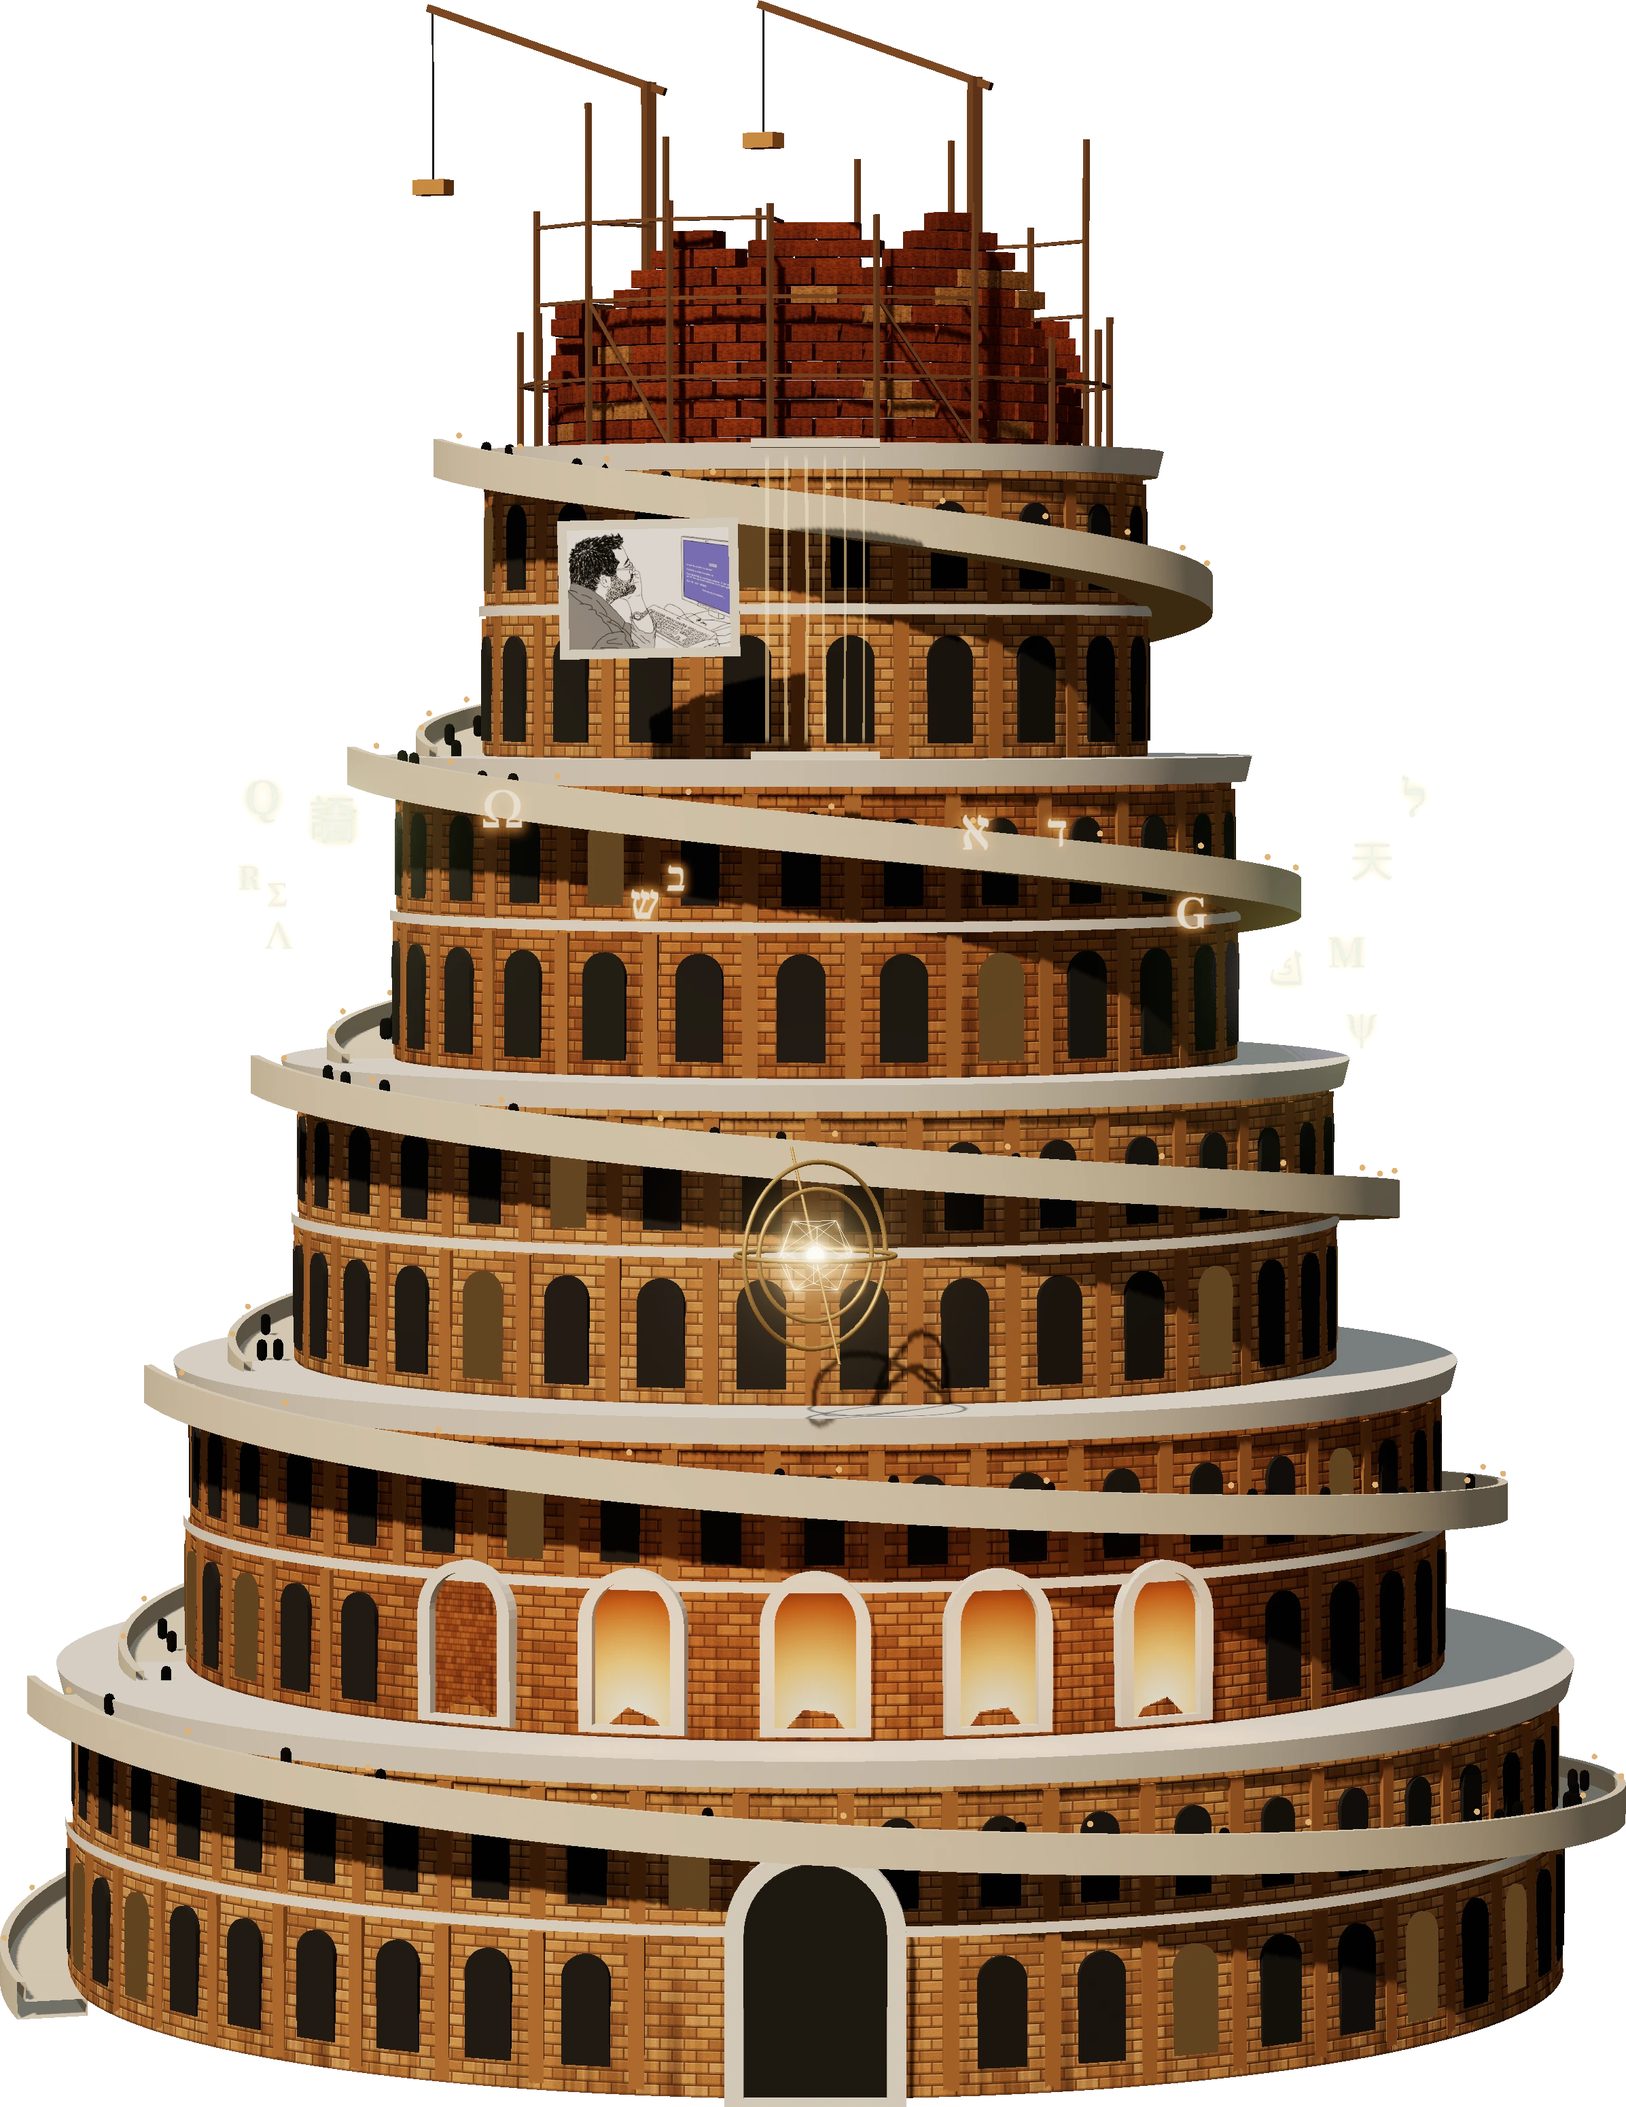
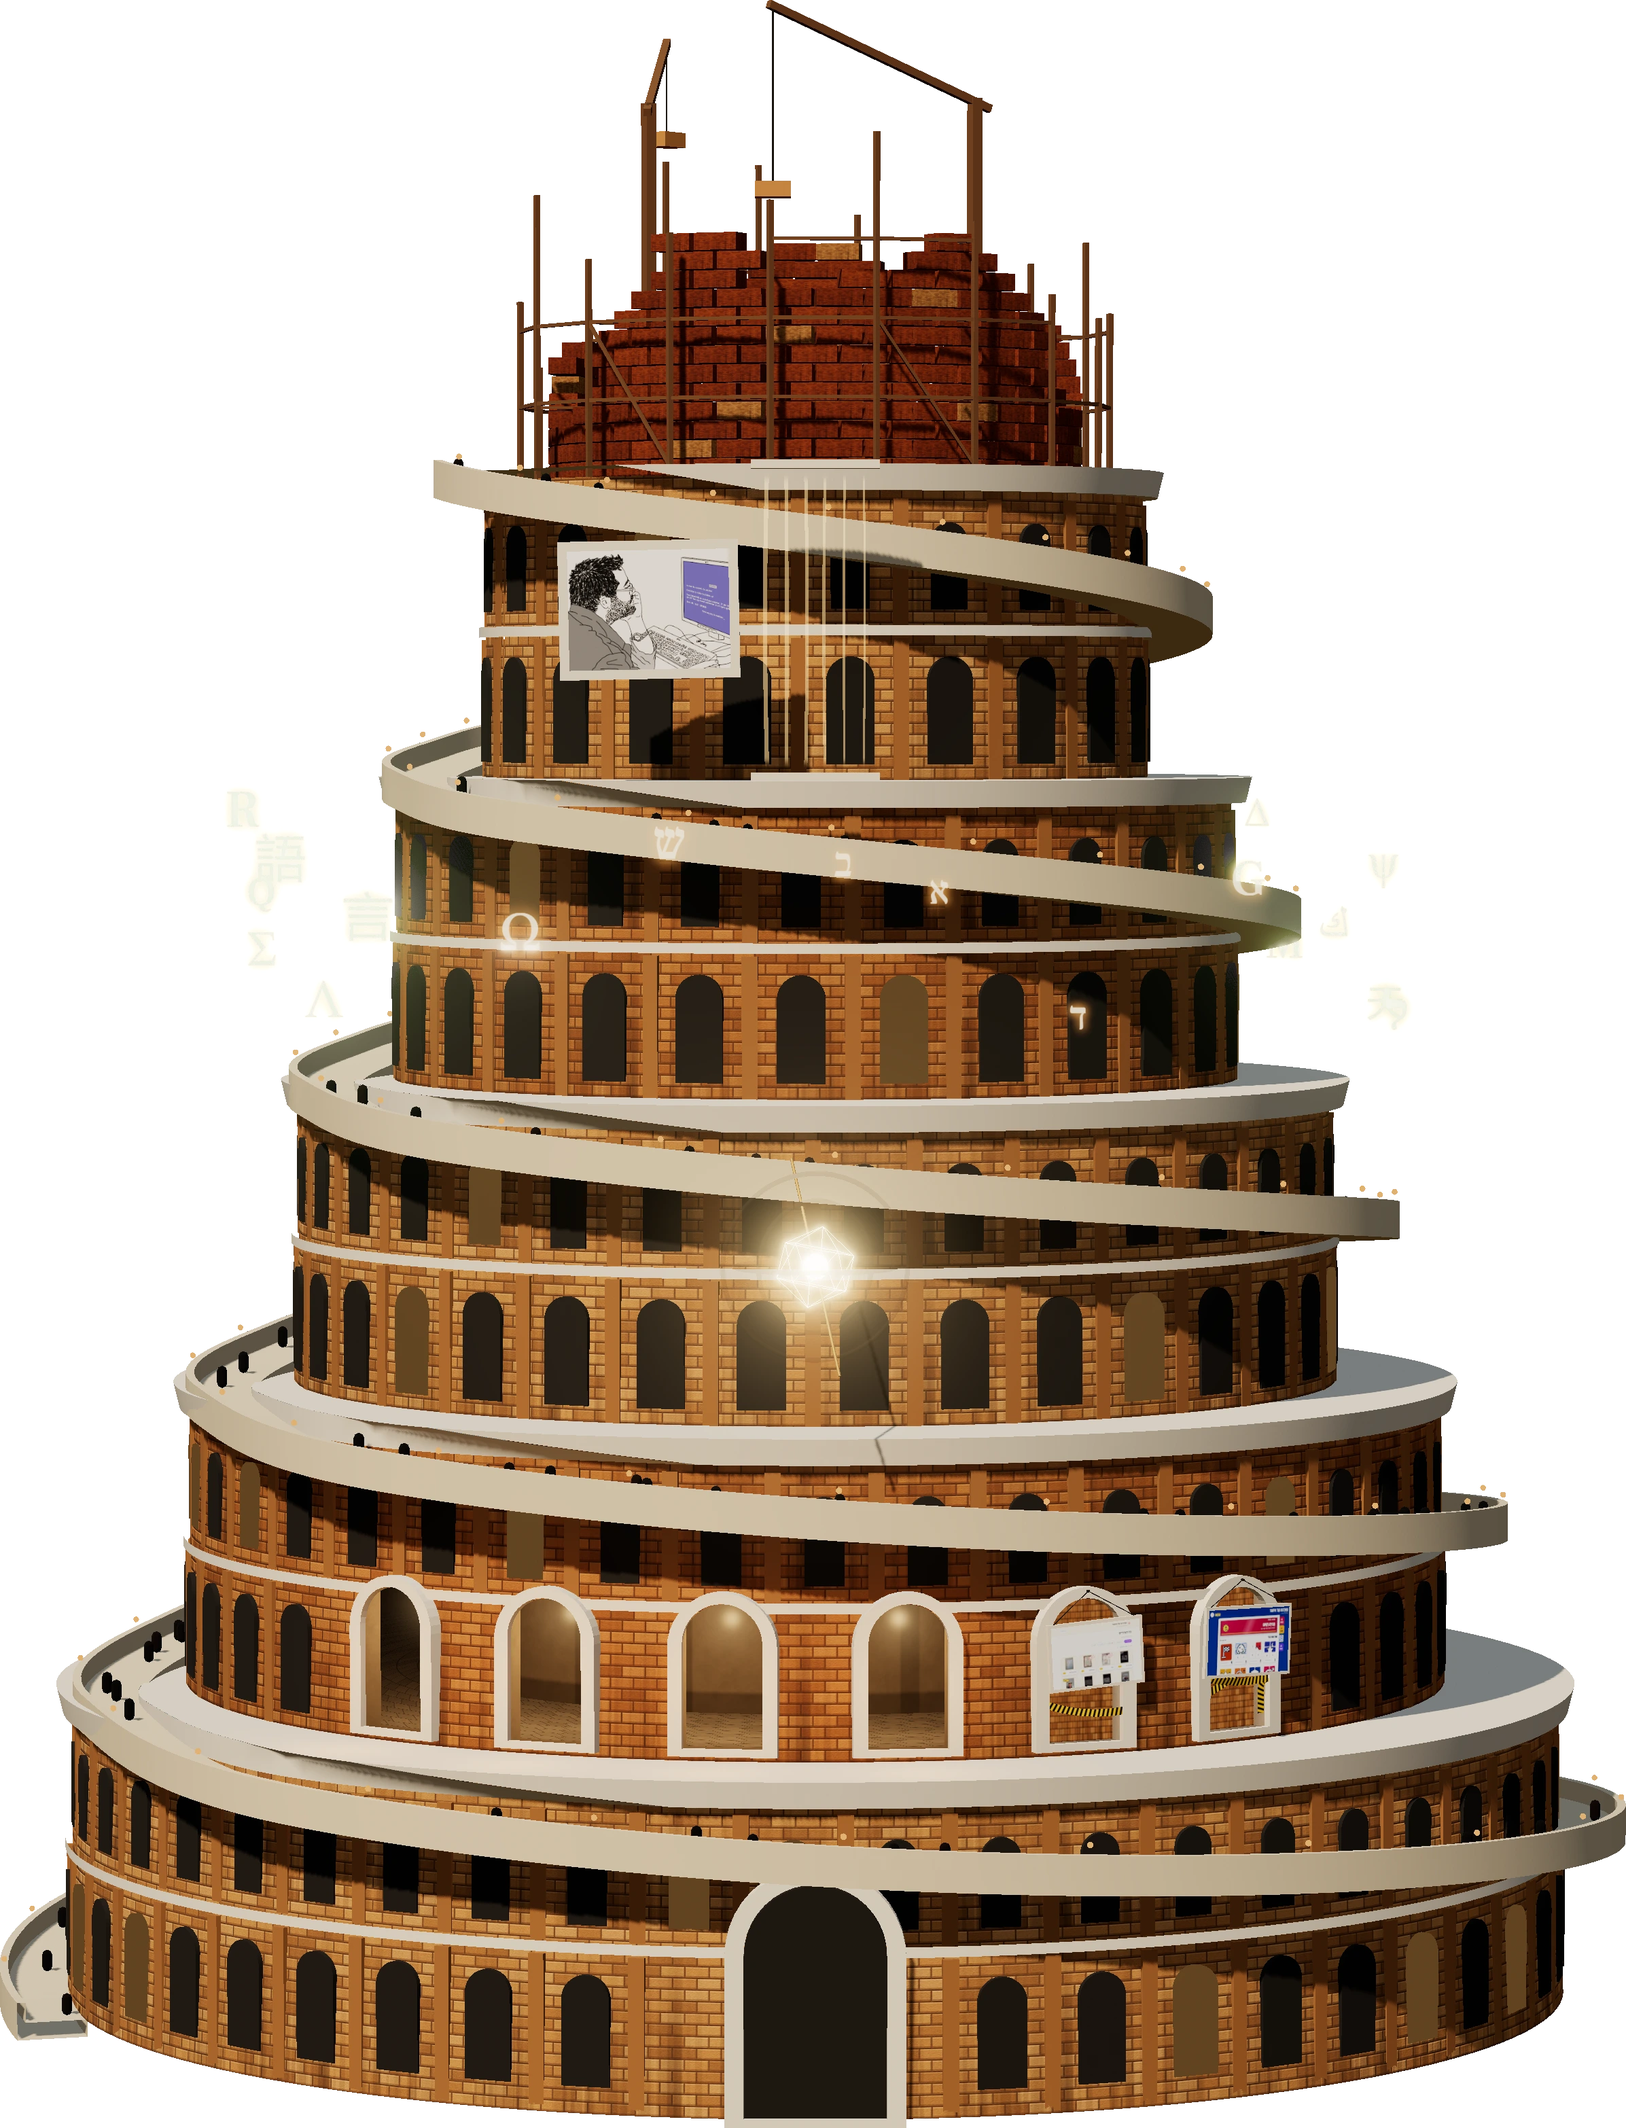
`design` the projects tier's signs, and the tower still with six doors

diff --git a/DESIGN.md b/DESIGN.md
@@ -12,6 +12,7 @@ colors:
   lamplight-wash: "color-mix(in srgb, #f2c37e 10%, transparent)"
   lamplight-edge: "color-mix(in srgb, #f2c37e 65%, transparent)"
   flemish-sky: "#6f8fb3"
+  pale-sky: "#9db7d6"
   dawn-zenith: "#2a3a62"
   dawn-horizon: "#f3b98a"
   summit-night: "#101a33"
@@ -111,7 +112,17 @@ components:
     textColor: "{colors.lamplight-gold}"
     typography: "{typography.label}"
     rounded: "{rounded.pill}"
-    padding: "4px 10px"
+    padding: "4px 10px 4px 8px"
+  project-status-dev:
+    textColor: "{colors.pale-sky}"
+  project-status-archive:
+    textColor: "{colors.limestone-dim}"
+  gallery-step:
+    backgroundColor: "{colors.control-glass}"
+    textColor: "{colors.limestone-cornice}"
+    rounded: "{rounded.pill}"
+    width: "40px"
+    height: "40px"
   path-mark:
     backgroundColor: "{colors.lamplight-gold}"
     rounded: "3px 3px 1px 1px"
@@ -173,10 +184,11 @@ The palette is the tower's materials under a sky that shifts with altitude, with
 
 ### Secondary
 - **Sun-baked Mudbrick** (#c98b4a): the tower's own brick. It appears in the brand mark's tiers, the loader's bricks, the lower brick in the game icon and the scrollbar thumb (pale at 28% until the panel is scrolled or hovered).
-- **Fired Mudbrick** (#a9713a): the darker course. It is the bricked-up doorway of a closed project and the bottom edge of the loader's bricks.
+- **Fired Mudbrick** (#a9713a): the darker course. It is the bricked-up doorway of a project in development and the bottom edge of the loader's bricks.
 
 ### Tertiary
 - **Flemish Sky** (#6f8fb3): the field (`--sd-field`) and the day stop of the sky.
+- **Pale Sky** (#9db7d6, `--sd-sky-pale`): the status of a project in development, its dot and its pill. It is the sky's own colour, not a second accent: it marks a state, the way gold marks what is alive, and appears nowhere else.
 - **Dawn Zenith** (#2a3a62), **Dawn Horizon** (#f3b98a), **Summit Night** (#101a33): the sky stops. The base sky gradient runs dawn zenith, Flemish sky, dawn horizon. The page's climb gradient runs from the dawn zenith through day, golden dusk and violet to summit night. The summit tier adds a field of sparse warm-white stars, but only when the live tower isn't painting its own sky.
 
 ### Neutral
@@ -190,6 +202,8 @@ The palette is the tower's materials under a sky that shifts with altitude, with
 
 ### Named Rules
 **The Lamplight Rule.** Gold appears only where something is alive: a link, the lit doorway and its card, focus, the current tier, a live status, a contact you can reach. Never use gold as decoration on still content.
+
+**The Status Colour Rule.** Each project status has one colour, the same in its closed dot and its open pill: live in Lamplight Gold, in development in Pale Sky, archived in Limestone Dim. The colour carries the status at a glance; the label stays in the markup (and a tooltip) for anyone who can't rely on colour.
 
 **The Sky Owns the Field Rule.** The background is always the sky, or the tower and its sky. No flat page colour sits behind the content, and no panel is opaque.
 
@@ -206,8 +220,8 @@ The palette is the tower's materials under a sky that shifts with altitude, with
 ### Hierarchy
 - **Display** (400, clamp 2.6rem to 4.9rem, 1.04): the name at the base, the page's single h1. In the base panel its size follows the panel width (`min(display size, 17cqi)`, no wrapping), so it always stays on one line.
 - **Headline** (400, clamp 2rem to 3.05rem, 1.04): each tier's title (h2), balanced wrapping.
-- **Title** (400, clamp 1.3rem to 1.5rem, 1.04): h3. At similar sizes, Suez One also sets the project names (1.22rem), contact values (1.08rem), the header name (1.32rem), the handle (1.35rem, 0.12em tracking, gold) and the gauge's altitude readout.
-- **Carved serif** (400, 1.05rem): asides under a thin rule. It also sets quotes (1.32rem, 1.45 leading), the formula (clamp 1.8rem to 2.4rem, gold) and the portrait caption.
+- **Title** (400, clamp 1.3rem to 1.5rem, 1.04): h3. At similar sizes, Suez One also sets the project names (1.22rem, 1.32rem on the open card), contact values (1.08rem), the header name (1.32rem), the handle (1.35rem, 0.12em tracking, gold) and the gauge's altitude readout.
+- **Carved serif** (400, 1.05rem): asides under a thin rule. It also sets quotes (1.32rem, 1.45 leading), the formula (clamp 1.8rem to 2.4rem, gold), the portrait caption and the gallery's captions (1.1rem).
 - **Lead** (400, 1.16rem, 1.6, max 68ch): the first paragraph under a tier title (1.02rem on phones).
 - **Body** (400, 1.0625rem / 17px, 1.6): running text, with pretty wrapping.
 - **Label** (700, 0.85rem, 0.04em tracking): contact labels, project status (0.78rem), and the "גם ב:" lead. Labels never take uppercase transforms (the script is Hebrew).
@@ -243,8 +257,9 @@ Depth is atmospheric: translucent, blurred glass over a lit scene, plus one deep
 
 ### Shadow Vocabulary
 - **Panel lift** (`box-shadow: 0 30px 80px -30px rgb(10 8 6 / 0.65), inset 0 1px 0 rgb(255 240 215 / 0.12)`): the arch panel only. A long offset drop plus a hairline of warm light along its top edge.
-- **Legibility glow** (`text-shadow: 0 1px 2px rgb(20 16 12 / 0.85), 0 0 10px rgb(20 16 12 / 0.7)`): text set directly over the scene, such as the header name and tagline, the gauge readout and labels, the loader line and the portrait caption.
+- **Legibility glow** (`text-shadow: 0 1px 2px rgb(20 16 12 / 0.85), 0 0 10px rgb(20 16 12 / 0.7)`): text set directly over the scene, such as the header name and tagline, the gauge readout and labels, the loader line, and the portrait's and the gallery's captions.
 - **Mat shadow** (`box-shadow: 0 14px 30px -12px rgb(10 8 6 / 0.7), inset 0 0 0 1px rgb(45 42 38 / 0.15)`; lifted on hover/focus to `0 24px 40px -14px rgb(10 8 6 / 0.75)`): the self-portrait's limestone mat, a physical object hung askew.
+- **Screenshot lift** (`box-shadow: 0 24px 60px -20px rgb(0 0 0 / 0.75), 0 0 0 1px rgb(255 255 255 / 0.08)`, 10px radius): a screenshot enlarged in the gallery, over its backdrop.
 - **Glass blur** (`backdrop-filter: blur(16px) saturate(1.15)` on panels, `blur(10px)` on controls): this is what makes the glass read as glass over the moving tower.
 
 ### Named Rules
@@ -273,10 +288,12 @@ Dark glass that warms to gold on hover.
 
 ### Cards / Containers
 - **Arch panel:** see Shapes. Fill is a top-to-bottom gradient from Smoked Glass to Smoked Glass Deep, with a Cornice Line border and the panel-lift shadow. Padding is 4.4rem at the top (under the arch), 2.1rem inline and 2rem at the bottom. Each tier's content has one title, then a body that scrolls.
-- **Project doorway card:** a three-column grid (door, name over description, status pill). At rest it has a 3% warm wash and a limestone border at 14%. **Lit** (hover, focus, or the climb's stop on that project, which is also when its doorway in the tower is hovered): a 12% gold wash, 60% gold border, a 2px lift, and the door glows (radial white-gold to amber). The description takes full Limestone Cornice. A closed project's door is bricked up in fired mudbrick and never glows; at its stop only the border brightens.
+- **Project doorway card:** a three-column grid (door, name over description, status pill with a dot). At rest it has a 3% warm wash and a limestone border at 14%. **Lit** (hover, focus, or the climb's stop on that project, which is also when its doorway or sign in the tower is pointed at): a 12% gold wash, 60% gold border, a 2px lift, and the door glows (radial white-gold to amber). The description takes full Limestone Cornice. A project in development has a door bricked up in fired mudbrick that never glows; lit, only its border brightens. **Stepping** (once the climb runs the list): only the lit card is open. The others close to one row: a 20 × 26px door, the name, and their status as an 8px dot in its colour (with a faint ring), the description folded away. The open card grows its door to 30 × 40px and its name to 1.32rem, slides its description open (0fr to 1fr, fading in) and opens its dot into the pill. Every part moves together on one gentle ease in and out (460ms, `cubic-bezier(0.45, 0, 0.2, 1)`), and nothing changes its place in the grid. A card or doorway pointed at opens at once and lingers 250ms after the pointer leaves, so crossing between two goes straight from one to the other. A card reached from the keyboard takes the scroll to its stop. The list keeps the height of its tallest state; without the script every card stays open. A project in development with screenshots is a button (a zoom pointer) that opens its gallery.
 - **Path (timeline):** the experience tier's stages, newest first, down a 2px rail at the inline-start (limestone at 16%). Each stage has a 12px arched mark, today's in Lamplight Gold. A stage is its years (gold 700 at 0.8rem), its role in Suez One at 1.1rem with the place after it in Limestone Dim (kept whole, never broken at a maqaf), and one or two detail lines (0.93rem, Limestone Dim). **Stepping** (the climb's stops, degree first): the stage in focus opens its details (a grid row sliding from 0fr to 1fr), its role grows to 1.22rem and its mark turns gold at 1.2 scale. The others close to years and role at 50%. The stages already passed keep a muted gold mark and their piece of rail in gold, so the rail fills from the degree up to the focus. The list keeps the height of its tallest state, so the panel never moves between stops. With reduced motion only the fade remains. Without the script every stage stays open. In the live tower the armillary sphere builds up with it: off below the tier, its core lit with the degree and a ring gilded for each later stage, outward to today's; the part in focus flashes as the focus comes to it, either way, and the camera takes the sphere from a side of its own at each stop.
 - **Contact row:** a label (gold icon and gold 700 label) and the value in Suez One, space-between, wrapping the value whole under the label if it can't fit. 4% warm wash, 14% limestone border, 8px radius, warming to gold on hover/focus.
 - **Craft list:** gold 26px line icons beside 1.06rem text, separated by limestone hairlines at 10%.
+
+- **Project gallery:** a project's screenshots in a native modal over a darkened (78%), blurred backdrop, one at a time with a carved-serif caption, at most `min(92vw, 64rem)` wide. A phone shot fits the screen's height and a desktop one the width; the stage keeps one height, so the controls under it stay put. Under it: round 40px steps (pill controls) on either side of a row of 8px dots (the one shown in Lamplight Gold at 1.25 scale), then a close pill. The arrow keys and a swipe move in the reading direction; focus starts on "next"; a live region says "תמונה 2 מתוך 4". It grows out of the project's sign on its door when that is in view, at the sign's own lean (the sign leaves its door meanwhile), else out of its card, and shrinks back into the same.
 
 ### Inputs / Fields
 - **Style:** the game leaderboard's name field is a pill, at least 44px tall, with a 6% warm wash and a Cornice Line Strong border.
@@ -294,6 +311,9 @@ The global ring is a 2px solid Hot Lamplight outline with a 3px offset and the 6
 ### The Self-Portrait (signature)
 Baruch's pen drawing of himself facing a blue error screen, on a limestone mat (10px padding, 3px radius), hung askew at -1.4°. On hover/focus it straightens and lifts. It opens in a native modal over a darkened (72%), blurred backdrop, with a FLIP motion from the small drawing and a carved-serif caption. It is 15rem wide in the base panel and 11rem on phones.
 
+### Project Signs (in the tower)
+A project in development keeps its bricked doorway, with caution tape across it (yellow and black bands, each doorway strung its own way), and a sign hangs over the tape: a desktop screenshot of the project in a limestone frame, on two ink cords from a nail in the doorframe's keystone. It is wider than the doorway, covering part of the doorframe, and hung by hand, not by a ruler: each sign is a little larger or smaller, higher or lower, leans 2-4° to its own side and turns a touch off the wall, then sways slowly. When its project is lit, a warm halo spreads from its edges, its frame warms, its screenshot takes a warm tint and a warm light falls on the bricks round it. The sign of a project with a gallery is pointed at and clicked like a doorway, and opens it.
+
 ### The Babel Title (signature)
 The summit heading scrambles through several scripts before it settles. It stays on one line while it scrambles, so the panel below doesn't jump.
 
@@ -307,6 +327,7 @@ A sky-gradient screen where five bricks are laid base-first, with a limestone ca
 - **Do** keep the tower unmirrored in LTR: the ramp climbs clockwise and the doorway order is fixed. Only the page layout follows `dir`.
 - **Do** keep the page the climb in every mode: the same spans, panels and sheets over either the live tower or the still picture. With reduced motion, fade instead of drift; with Save-Data, fetch no pictures.
 - **Do** spend Lamplight Gold only on what is alive: links, the lit card and door, focus, the current tier, live status, reachable contacts.
+- **Do** give each project status its one colour, in the closed dot and the open pill alike (gold, pale sky, limestone dim), and keep its label in the markup.
 - **Do** set secondary text over glass in Limestone Dim (at least 4.5:1 on every tier), and switch it to full Limestone Cornice on a warmed (lit, hovered, focused) surface.
 - **Do** keep the base name on one line by sizing it from the panel (`min(var(--sd-text-h1), 17cqi)`), and size one-line rows like "גם ב:" from a single em-based font size.
 - **Do** isolate only the English word in a Hebrew line (`<bdi dir="ltr">ShoobyD</bdi>`), with the line itself in the page's direction.
